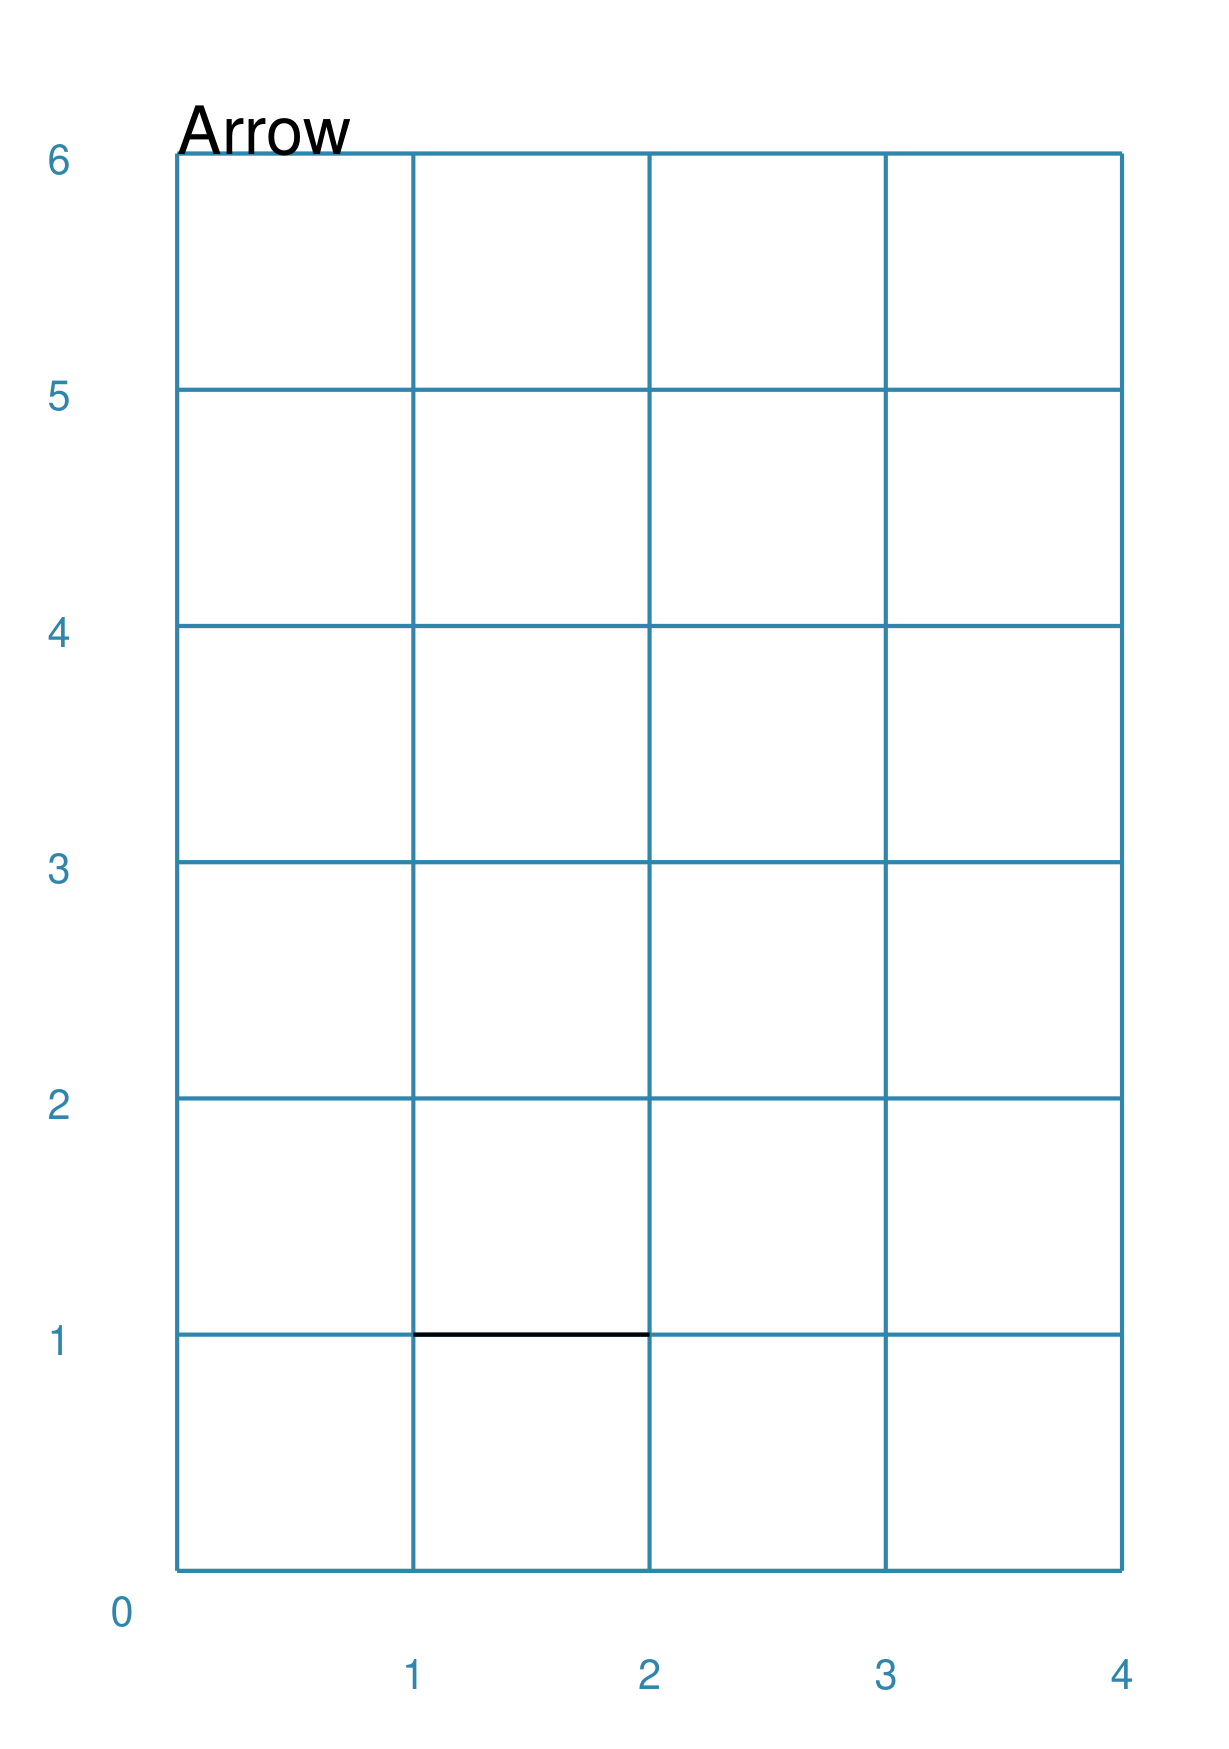
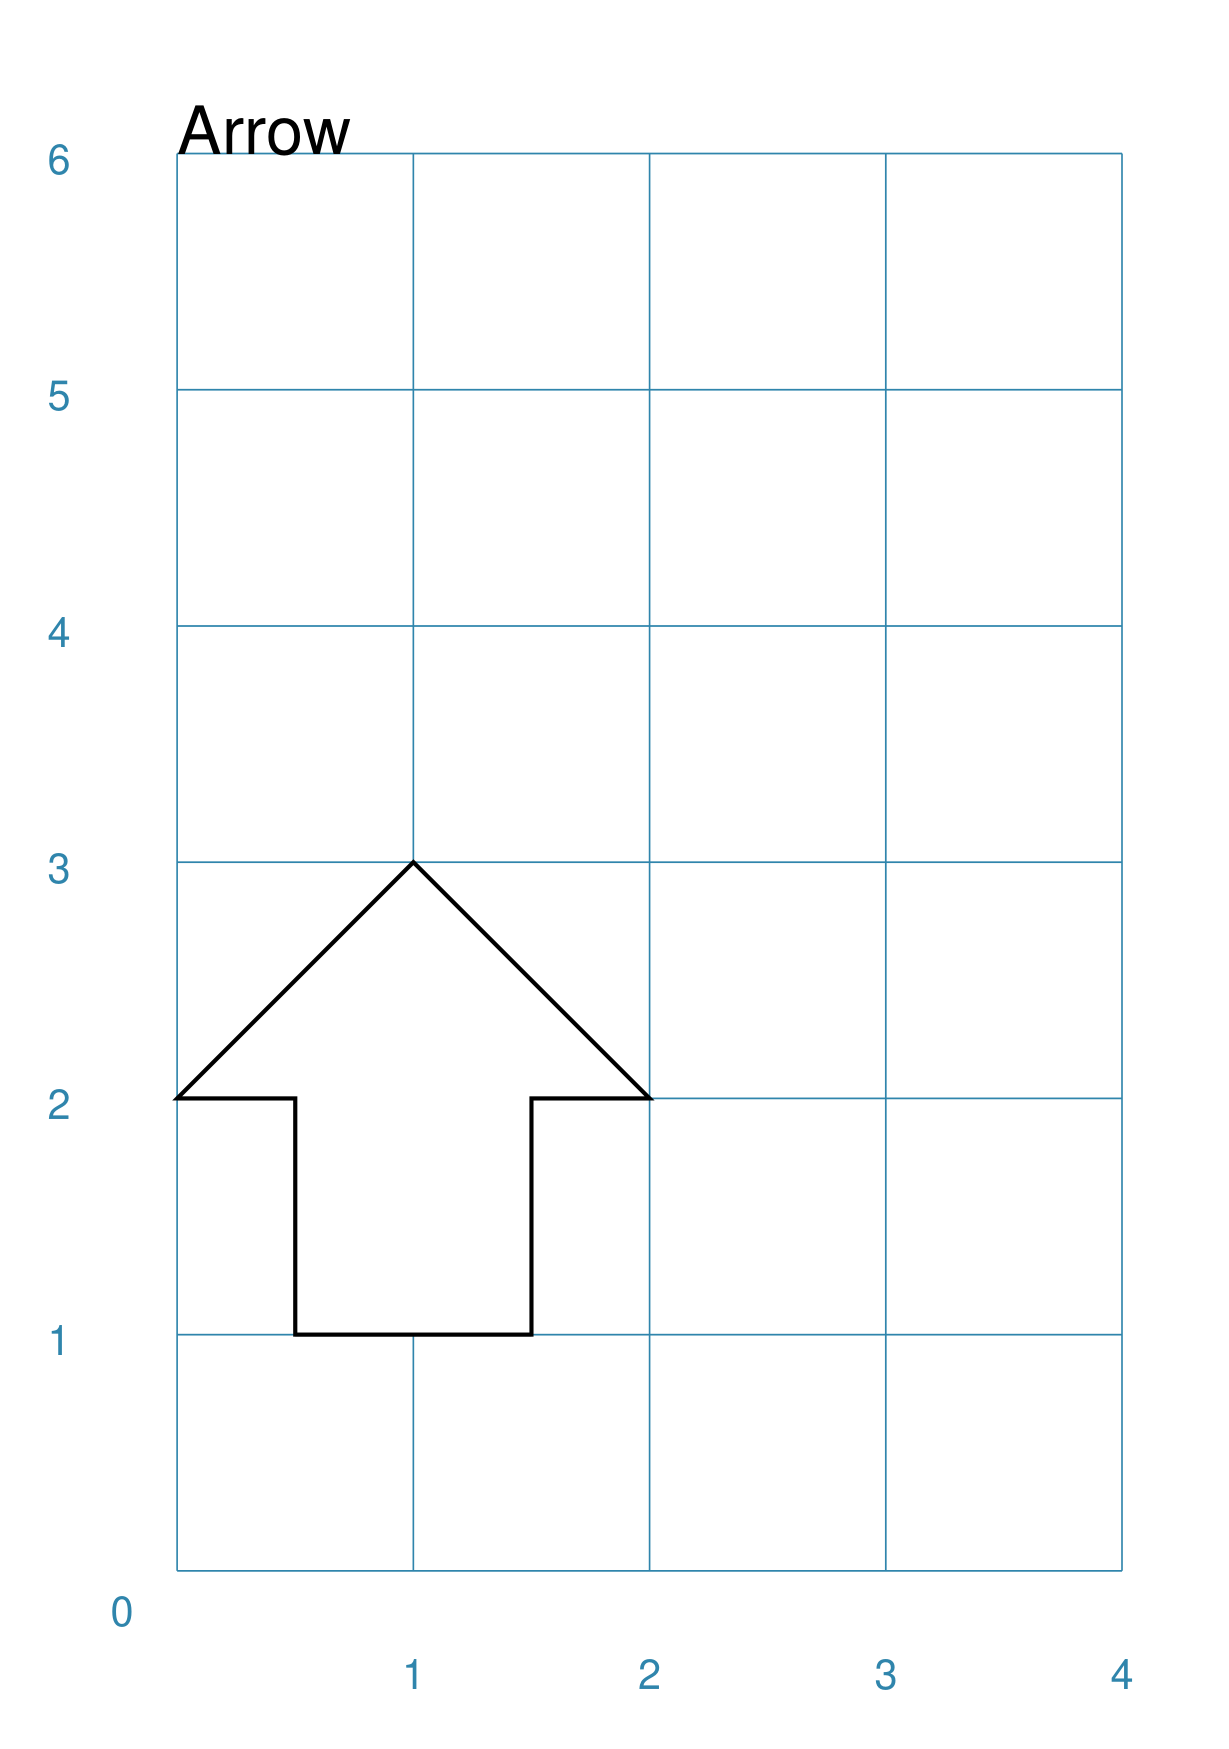
ArrowShape being drawn; default example

diff --git a/pyprototypr/base.py b/pyprototypr/base.py
@@ -489,23 +489,28 @@ class BaseCanvas:
         self.angle_width = self.defaults.get('angle_width', 90)
         # ---- chord
         self.angle_1 = self.defaults.get('angle1', 0)
-        # ---- arrow: head and tail
-        self.head_style = self.defaults.get('head_style', 'triangle')
-        self.tail_style = self.defaults.get('tail_style', None)
-        self.head_fraction = self.defaults.get('head_fraction', 0.1)
-        self.tail_fraction = self.defaults.get('tail_fraction', 0.1)
-        self.head_height = self.defaults.get('head_height', None)
-        self.tail_height = self.defaults.get('tail_height', None)
-        self.head_width = self.defaults.get('head_width', None)
-        self.tail_width = self.defaults.get('tail_width', None)
-        self.tail_fill = self.defaults.get('tail_fill', self.fill)
-        self.head_fill = self.defaults.get('head_fill', self.fill)
-        self.head_stroke = self.defaults.get('head_stroke', self.stroke)
-        self.tail_stroke = self.defaults.get('tail_stroke', self.stroke)
-        self.head_stroke_width = self.defaults.get(
-            'head_stroke_width', self.stroke_width)
-        self.tail_stroke_width = self.defaults.get(
-            'tail_stroke_width', self.stroke_width)
+        # ---- arrow shape: head and tail
+        self.points_offset = self.defaults.get('points_offset', 0)
+        self.head_height = self.defaults.get('head_height', 1)
+        self.head_width = self.defaults.get('head_width', 2 * self.width)
+        self.tail_width = self.defaults.get('tail_width', 1)
+        # TODO arrow-on-a-line
+        self.arrow_style = self.defaults.get('arrow_style', 'triangle')
+        self.arrow_tail_style = self.defaults.get('arrow_tail_style', None)
+        self.arrow_head_fraction = self.defaults.get('arrow_head_fraction', 0.1)
+        self.arrow_tail_fraction = self.defaults.get('arrow_tail_fraction', 0.1)
+        self.arrow_head_height = self.defaults.get('arrow_head_height', None)
+        self.arrow_tail_height = self.defaults.get('tail_height', None)
+        self.arrow_head_width = self.defaults.get('head_width', None)
+        self.arrow_tail_width = self.defaults.get('tail_width', None)
+        self.arrow_tail_fill = self.defaults.get('tail_fill', self.fill)
+        self.arrow_head_fill = self.defaults.get('head_fill', self.fill)
+        self.arrow_head_stroke = self.defaults.get('head_stroke', self.stroke)
+        self.arrow_tail_stroke = self.defaults.get('tail_stroke', self.stroke)
+        self.arrow_head_stroke_width = self.defaults.get(
+            'arrow_head_stroke_width', self.stroke_width)
+        self.arrow_tail_stroke_width = self.defaults.get(
+            'arrow_tail_stroke_width', self.stroke_width)
         # ---- line / bezier
         self.x_1 = self.defaults.get('x1', 0)
         self.y_1 = self.defaults.get('y1', 0)
@@ -811,21 +816,14 @@ class BaseShape:
         # ---- chord
         self.angle_1 = self.kw_float(kwargs.get('angle1', cnv.angle_1))  # anti-clock from flat
         self._angle_1_theta = math.radians(self.angle_1)
-        # ---- arrow: head and tail
-        self.head_style = kwargs.get('head_style', cnv.head_style)
-        self.tail_style = kwargs.get('tail_style', cnv.tail_style)
-        self.head_fraction = self.kw_float(kwargs.get('head_fraction', cnv.head_fraction))
-        self.tail_fraction = self.kw_float(kwargs.get('tail_fraction', cnv.tail_fraction))
+        # ---- arrow shape: head, points and tail
+        self.points_offset = self.kw_float(kwargs.get('points_offset', cnv.points_offset))
         self.head_height = self.kw_float(kwargs.get('head_height', cnv.head_height))
-        self.tail_height = self.kw_float(kwargs.get('tail_height', cnv.tail_width))
         self.head_width = self.kw_float(kwargs.get('head_width', cnv.head_width))
         self.tail_width = self.kw_float(kwargs.get('tail_width', cnv.tail_width))
-        self.tail_fill = kwargs.get('tail_fill', cnv.tail_fill)
-        self.head_fill = kwargs.get('head_fill', cnv.head_fill)
-        self.head_stroke = kwargs.get('head_stroke', cnv.stroke)
-        self.tail_stroke = kwargs.get('tail_stroke', cnv.stroke)
-        self.head_stroke_width = self.kw_float(kwargs.get('head_stroke_width', cnv.stroke_width))
-        self.tail_stroke_width = self.kw_float(kwargs.get('tail_stroke_width', cnv.stroke_width))
+        # TODO arrow-on-a-line
+        self.arrow_style = kwargs.get('arrow_style', cnv.arrow_style)
+        self.arrow_tail_style = kwargs.get('arrow_tail_style', cnv.arrow_tail_style)
         # ---- line / bezier / sector
         self.x_1 = self.kw_float(kwargs.get('x1', cnv.x_1))
         self.y_1 = self.kw_float(kwargs.get('y1', cnv.y_1))
@@ -1261,18 +1259,18 @@ class BaseShape:
                      'linear', 'diagonal', 'l', 'd']:
                 issue.append(f'"{self.coord_style}" is an invalid coord style!')
                 correct = False
-        # ---- arrows
-        if self.head_style:
-            if str(self.head_style).lower() not in [
+        # ---- line arrows
+        if self.arrow_style:
+            if str(self.arrow_style).lower() not in [
                     'line', 'l', 'line2', 'l2', 'line3', 'l3', 'triangle', 't',
                     'diamond', 'd', 'notch', 'n', 'spear', 's', 'circle', 'c']:
-                issue.append(f'"{self.head_style}" is an invalid arrow head_style!')
+                issue.append(f'"{self.arrow_style}" is an invalid arrow style!')
                 correct = False
-        if self.tail_style:
-            if str(self.tail_style).lower() not in [
+        if self.arrow_tail_style:
+            if str(self.arrow_tail_style).lower() not in [
                     'line', 'l', 'line2', 'l2', 'line3', 'l3', 'feather', 'f',
                     'circle', 'c']:
-                issue.append(f'"{self.tail_style}" is an invalid arrow tail_style!')
+                issue.append(f'"{self.arrow_tail_style}" is an invalid arrow tail style!')
                 correct = False
         # ---- starfield
         if self.star_pattern:

diff --git a/pyprototypr/shapes.py b/pyprototypr/shapes.py
@@ -160,14 +160,40 @@ class ArrowShape(BaseShape):
     Arrow on a given canvas.
     """
 
-    def arrow_head(self):
-        """Draw head of arrow."""
+    def __init__(self, _object=None, canvas=None, **kwargs):
+        super(ArrowShape, self).__init__(_object=_object, canvas=canvas, **kwargs)
+        # ---- unit calcs
+        self.points_offset_u = self.unit(self.points_offset) if self.points_offset else 0
+        self.head_height_u = self.unit(self.head_height) if self.head_height else self._u.height / 2.0
+        self.head_width_u = self.unit(self.head_width) if self.head_width else self._u.width * 2.0
+        self.tail_width_u = self.unit(self.tail_width) if self.tail_width else self._u.width
 
-    def arrow_tail(self):
-        """Draw head of arrow."""
+    def get_vertices(self, **kwargs):
+        """Calculate vertices of arrow."""
+        x_c = kwargs.get('x')
+        x_s, y_s = x_c - self.tail_width_u / 2.0, kwargs.get('y')
+        tail_height = self._u.height
+        total_height = self._u.height + self.head_height_u
+        if tail_height <= 0:
+            tools.feedback(
+                'The Arrow head height must be less than overall height', True)
+        vertices = []
+        vertices.append(Point(x_s, y_s))  # lower-left corner
+        vertices.append(Point(x_c - self._u.width / 2.0, y_s + tail_height))
+        vertices.append(Point(x_c - self.head_width_u / 2.0,
+                              y_s + tail_height + self.points_offset_u))
+        vertices.append(Point(x_c, y_s + total_height))  # tip
+        vertices.append(Point(x_c + self.head_width_u / 2.0,
+                              y_s + tail_height + self.points_offset_u))
+        vertices.append(Point(x_c + self._u.width / 2.0,
+                              y_s + tail_height))
+        # if self.tail_notch_height > 0:
+        #     pass  # extra vertex
+        vertices.append(Point(x_c + self.tail_width_u / 2.0, y_s)) # bottom corner
+        return vertices
 
     def draw(self, cnv=None, off_x=0, off_y=0, ID=None, **kwargs):
-        """Draw an arrow on a given canvas."""
+        """Draw an arrow shape on a given canvas."""
         super().draw(cnv, off_x, off_y, ID, **kwargs)  # unit-based props
         cnv = cnv.canvas if cnv else self.canvas.canvas
         if self.use_abs:
@@ -176,47 +202,25 @@ class ArrowShape(BaseShape):
         else:
             x = self._u.x + self._o.delta_x
             y = self._u.y + self._o.delta_y
-        if self.use_abs_1:
-            x_1 = self._abs_x1
-            y_1 = self._abs_y1
-        elif self.x_1 or self.y_1:
-            x_1 = self.unit(self.x_1) + self._o.delta_x
-            y_1 = self.unit(self.y_1) + self._o.delta_y
-        else:
-            if self.angle > 0:
-                angle = math.radians(self.angle)
-                x_1 = x + (self._u.length * math.cos(angle))
-                y_1 = y + (self._u.length * math.sin(angle))
-            else:
-                x_1 = x + self._u.length
-                y_1 = y
-        if self.row is not None and self.row >= 0:
-            y = y + self.row * self._u.height
-            y_1 = y_1 + self.row * self._u.height - self._u.margin_bottom
-        if self.col is not None and self.col >= 0:
-            x = x + self.col * self._u.width
-            x_1 = x_1 + self.col * self._u.width - self._u.margin_left
-        log.debug("x:%s x1:%s y:%s y1:%s", x, x_1, y, y_1)
+        cx = x
+        cy = y + self._u.height - self.head_height_u
         # ---- set canvas
         self.set_canvas_props(index=ID)
         # ---- draw arrow
-        log.debug("angle:%s length:%s x:%s y:%s x_1:%s y_1:%s",
-                  self.angle, self._u.length, x, y, x_1, y_1)
+        self.vertices = self.get_vertices(cx=cx, cy=cy, x=x, y=y)
         pth = cnv.beginPath()
-        pth.moveTo(x, y)
-        pth.lineTo(x_1, y_1)
+        pth.moveTo(*self.vertices[0])
+        for vertex in self.vertices:
+            pth.lineTo(*vertex)
+        pth.close()
         cnv.drawPath(pth, stroke=1 if self.stroke else 0, fill=1 if self.fill else 0)
-        # ---- head
-        self.arrow_head()
-        # ---- tail
-        self.arrow_tail()
-        # ---- calculate line rotation
-        compass, rotation = geoms.angles_from_points(x, y, x_1, y_1)
         # ---- dot
-        self.draw_dot(cnv, (x_1 + x) / 2.0, (y_1 + y) / 2.0)
+        self.draw_dot(cnv, cx, cy)
+        # ---- cross
+        self.draw_cross(cnv, cx, cy)
         # ---- text
-        self.draw_label(
-            cnv, ID, (x_1 + x) / 2.0, (y_1 + y) / 2.0, rotation=rotation, centred=False, **kwargs)
+        self.draw_heading(cnv, ID, x, y + self._u.height, **kwargs)
+        self.draw_title(cnv, ID, x, y, **kwargs)
 
 
 class BezierShape(BaseShape):

diff --git a/docs/core_shapes.rst b/docs/core_shapes.rst
@@ -26,6 +26,7 @@ Index of Shapes
 ---------------
 
 -  `Arc`_
+-  `Arrow`_
 -  `Blueprint`_
 -  `Bezier`_
 -  `Circle`_
@@ -130,7 +131,6 @@ Example 1.
 
       - origin is at x-position ``1`` cm and at y-position ``1`` cm
 ===== ======
-
 
 Example 2.
 ++++++++++
@@ -432,6 +432,32 @@ There is an overview on how color is used in the
 
     *Reminder:* **pyprototypr** comes with a predefined set of named colors, shown in the
     `colors <../examples/colorset.pdf>`_ PDF file.
+
+Arrow
+~~~~~~
+`↑ <shapeIndex_>`_
+
+Example 1.
+++++++++++
+
+.. |arl| image:: images/defaults/arrow.png
+   :width: 330
+
+===== ======
+|arl| This example shows the shape constructed using the command with only
+      defaults::
+
+          Arrow()
+
+      It has the following properties based on the defaults:
+
+      - centre-bottom point at x-position ``1`` cm and at y-position ``1`` cm
+      - *height* of the tail portion of ``1`` cm
+      - *head_height* of the head portion of ``1`` cm
+      - *head_width* of the head portion of ``2`` cm
+===== ======
+
+
 
 Circle
 ~~~~~~
